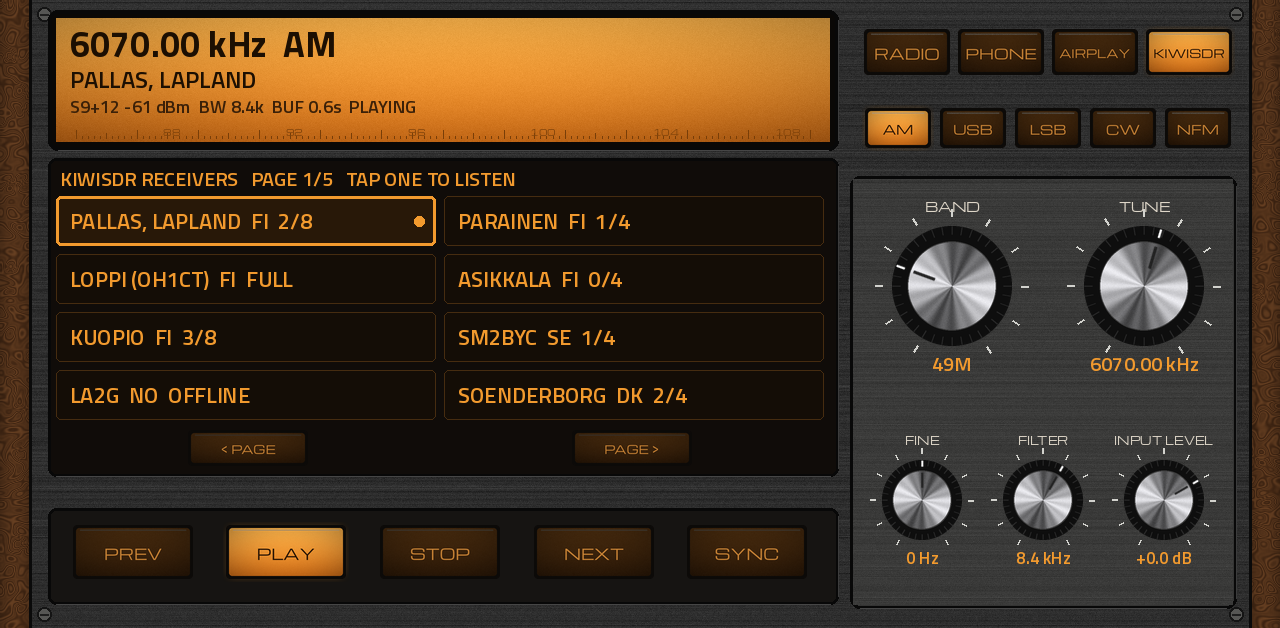
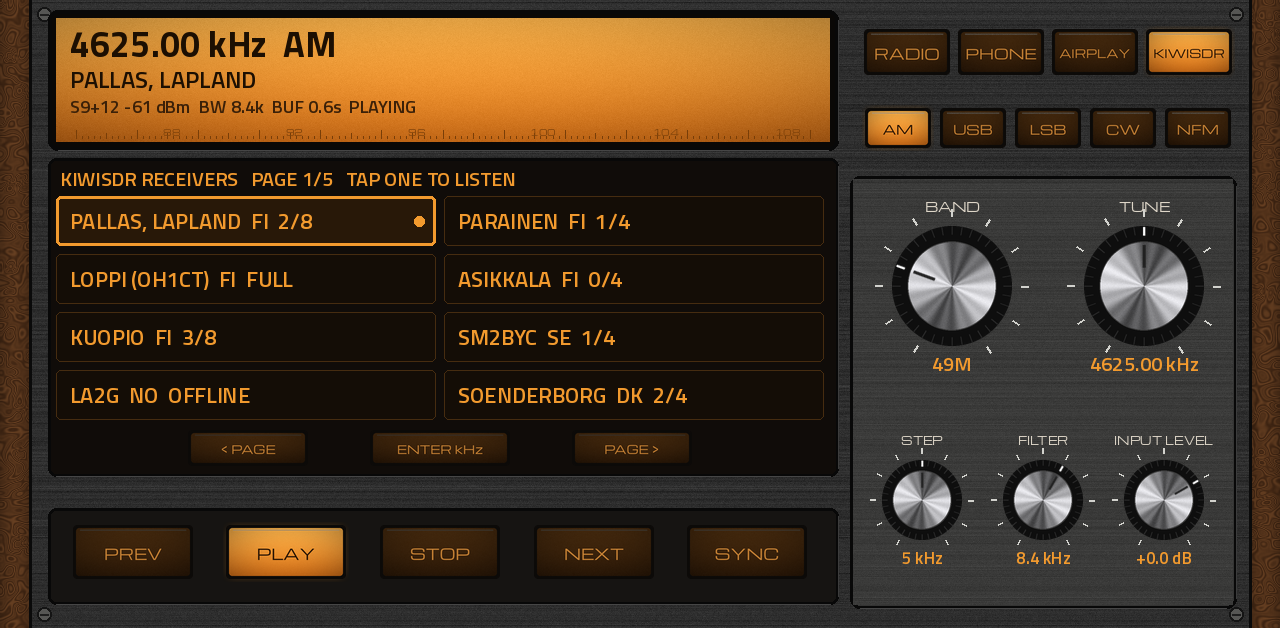
KIWISDR: free tuning over 0-30 MHz, STEP, ENTER kHz (0.2.2)
TUNE was tied to the selected band (it went round it in the band's step),
so frequencies between bands, like 4625 kHz, couldn't be reached. Now the
frequency is the engine's own (saved with the project): TUNE is an endless
knob (each move read from the middle, the knob put back there) stepping by
STEP (10 Hz .. 1 MHz, appended, in FINE's place on the page; FINE stays as
an unused parameter so indices hold), BAND jumps to a band's frequency,
mode and step, and ENTER kHz types a frequency with the keyboard.

Claude-Session: https://claude.ai/code/session_01JoZZ4tZXRfq7hKAep78PLY

diff --git a/src/engine.cc b/src/engine.cc
@@ -78,6 +78,9 @@ struct Inst {
   KiwiRx kcur;                        // the receiver picked
   bool kcur_valid = false;
   int kmode = KM_AM;
+  double kfreq = 6070.0;              // the frequency (kHz): BAND jumps, TUNE steps, ENTER kHz types it
+  bool kentry = false;                // the keyboard types a frequency (not a station search)
+  std::string kquery;
   bool kprobe = true;                 // ask the shown receivers for their status
   std::vector<std::string> changed;   // knobs the engine moved itself (mpc_engine_changed)
   // ---- readout
@@ -135,20 +138,44 @@ const KiwiBand& kband(const Inst* s) { return KIWI_BANDS[std::max(0, std::min(KI
 int kband_steps(const KiwiBand& b) { return b.nlist ? b.nlist - 1 : (int)lround((b.hi - b.lo) / b.step); }
 int kband_default(const KiwiBand& b) { return b.nlist ? 0 : (int)lround((b.def - b.lo) / b.step); }
 
-// TUNE moves one step (or one list entry) a detent and goes round the band: its 0..KIWI_TUNE_MAX holds every band at
-// least once, so a knob never stops dead at a band's end (and MPC's view of it stays the plugin's).
-int kiwi_step(const Inst* s) {
-  int n = kband_steps(kband(s)) + 1;
-  int t = std::max(0, (int)lroundf(s->v[P_KIWI_TUNE]));
-  return t % n;
+void moved(Inst* s, const char* key);
+void flash(Inst* s, const std::string& m);
+const double kKiwiTop = 30000.0;      // kHz: a KiwiSDR's range (0..30 MHz)
+
+double kiwi_khz(const Inst* s) { return s->kfreq; }
+
+double kiwi_step_khz(const Inst* s) { return KIWI_STEP_KHZ[std::max(0, std::min(KIWI_NUM_STEPS - 1, opt(s, P_KIWI_STEP)))]; }
+
+// the STEP option nearest a band's own step
+int kiwi_step_option(double khz) {
+  int best = 3;
+  for (int i = 0; i < KIWI_NUM_STEPS; ++i)
+    if (fabs(KIWI_STEP_KHZ[i] - khz) < fabs(KIWI_STEP_KHZ[best] - khz)) best = i;
+  return best;
 }
 
-double kiwi_khz(const Inst* s) {
-  const KiwiBand& b = kband(s);
-  int t = kiwi_step(s);
-  double f = b.nlist ? b.list[t] : b.lo + t * b.step;
-  f += ((int)lroundf(s->v[P_KIWI_FINE]) - 50) * 0.02;
-  return f < 0 ? 0 : f;
+// TUNE is an endless knob: it rests in the middle, each move is read from there (a Q-Link event or a data wheel click is
+// one step whichever way it went; a bigger move, a drag or a fast spin, that many steps), and the knob is put back.
+// A step is STEP on the grid of STEP (5 kHz steps land on ...5 and ...0), over the whole 0..30 MHz; in a list band
+// (TIME SIGNALS ...), while the frequency is one of its entries, the next entry.
+void kiwi_turn(Inst* s, float to) {
+  float d = to - 0.5f;
+  int steps = fabsf(d) < 0.03f ? (d > 0.f ? 1 : (d < 0.f ? -1 : 0)) : (int)lroundf(d * 128.f);
+  steps = std::max(-64, std::min(64, steps));
+  if (steps) {
+    const KiwiBand& b = kband(s);
+    int at = -1;
+    for (int i = 0; i < b.nlist; ++i) if (fabs(b.list[i] - s->kfreq) < 0.001) at = i;
+    if (at >= 0) s->kfreq = b.list[std::max(0, std::min(b.nlist - 1, at + steps))];
+    else {
+      double st = kiwi_step_khz(s), q = s->kfreq / st;
+      double base = steps > 0 ? floor(q + 1e-9) : ceil(q - 1e-9);   // off the grid: the first step lands on it
+      s->kfreq = std::max(0.0, std::min(kKiwiTop, (base + steps) * st));
+      s->kfreq = floor(s->kfreq * 1000.0 + 0.5) / 1000.0;           // whole Hz
+    }
+  }
+  s->v[P_KIWI_TUNE] = 0.5f;
+  moved(s, "kiwi_tune");
 }
 
 // the passband for the mode, FILTER's share of the mode's range (Hz around the carrier)
@@ -249,7 +276,7 @@ std::string value_text(const Inst* s, int p) {
       snprintf(b, sizeof b, "%.2f Hz", expmap(v, 0.02f, 20.f));
       return b;
     }
-    case P_KIWI_TUNE: snprintf(b, sizeof b, "%.2f kHz", kiwi_khz(s)); return b;
+    case P_KIWI_TUNE: snprintf(b, sizeof b, "%.2f kHz", kiwi_khz(s)); return b;   // the frequency, not the knob
     case P_KIWI_FINE: {
       int f = (int)lroundf(v) - 50;
       if (!f) return "0 Hz";
@@ -404,18 +431,26 @@ void set_kiwi_mode(Inst* s, int m) {
   kiwi_retune(s);
 }
 
-// BAND: the band's own frequency, mode and the fine tuning at zero
+// BAND: a jump to the band's own frequency, mode and step (TUNE goes on from there, anywhere)
 void kiwi_band_changed(Inst* s) {
   const KiwiBand& b = kband(s);
-  int n = kband_steps(b) + 1, d = kband_default(b);
-  int t = d + (int)lround((KIWI_TUNE_MAX / 2.0 - d) / n) * n;   // the band's own frequency, near the middle of the knob
-  while (t > KIWI_TUNE_MAX) t -= n;
-  while (t < 0) t += n;
-  s->v[P_KIWI_TUNE] = (float)t;
-  s->v[P_KIWI_FINE] = 50.f;
+  s->kfreq = b.def;
   s->kmode = b.mode;
-  moved(s, "kiwi_tune");
-  moved(s, "kiwi_fine");
+  if (!b.nlist) {
+    s->v[P_KIWI_STEP] = (float)kiwi_step_option(b.step);
+    moved(s, "kiwi_step");
+  }
+  kiwi_retune(s);
+}
+
+// ENTER kHz: the keyboard types a frequency
+void kiwi_enter(Inst* s) {
+  double f = atof(s->kquery.c_str());
+  s->kbd = false;
+  s->kentry = false;
+  if (s->kquery.empty()) return;
+  if (f < 0 || f > kKiwiTop) { flash(s, "0 .. 30000 kHz"); return; }
+  s->kfreq = f;
   kiwi_retune(s);
 }
 
@@ -468,6 +503,21 @@ void loop_capture(Inst* s) {
 }
 
 void press(Inst* s, int p) {
+  if (s->kentry && p >= P_KB_1 && p <= P_KB_M) {   // a frequency: digits only
+    const char* c = PARAM_DEFS[p].name;
+    if (c[0] >= '0' && c[0] <= '9' && s->kquery.size() < 9) s->kquery += c;
+    s->display_rev++;
+    return;
+  }
+  if (s->kentry && (p == P_KB_SPACE || p == P_KB_DEL || p == P_KB_CLR || p == P_KB_GO || p == P_KB_CLOSE)) {
+    if (p == P_KB_SPACE && s->kquery.find('.') == std::string::npos && s->kquery.size() < 9) s->kquery += s->kquery.empty() ? "0." : ".";
+    else if (p == P_KB_DEL && !s->kquery.empty()) s->kquery.pop_back();
+    else if (p == P_KB_CLR) s->kquery.clear();
+    else if (p == P_KB_GO) kiwi_enter(s);
+    else if (p == P_KB_CLOSE) { s->kbd = false; s->kentry = false; }
+    s->display_rev++;
+    return;
+  }
   if (p >= P_KB_1 && p <= P_KB_M) {   // the keyboard's characters
     if (s->query.size() < 40) s->query += PARAM_DEFS[p].name;
     s->display_rev++;
@@ -486,20 +536,22 @@ void press(Inst* s, int p) {
       if (s->cur_valid) play_station(s, s->cur);
       else { s->src.stop(); s->radio_on = false; }
       break;
-    case P_SRC_PHONE: s->want_src = SRC_PHONE; s->kbd = false; s->src.play_phone(); s->title.clear(); s->flowing = false; s->ip = s->src.ip_text(); break;
-    case P_SRC_AIR: s->want_src = SRC_AIRPLAY; s->kbd = false; s->src.play_airplay(); s->title.clear(); s->flowing = false; s->ip = s->src.ip_text(); break;
+    case P_SRC_PHONE: s->want_src = SRC_PHONE; s->kbd = false; s->kentry = false; s->src.play_phone(); s->title.clear(); s->flowing = false; s->ip = s->src.ip_text(); break;
+    case P_SRC_AIR: s->want_src = SRC_AIRPLAY; s->kbd = false; s->kentry = false; s->src.play_airplay(); s->title.clear(); s->flowing = false; s->ip = s->src.ip_text(); break;
     case P_SRC_KIWI:
       s->kbd = false;
+      s->kentry = false;
       s->kprobe = true;
       if (s->kcur_valid) play_kiwi(s, s->kcur);
       else { s->want_src = SRC_KIWI; s->src.stop(); s->title.clear(); s->flowing = false; }
       break;
+    case P_KIWI_ENTER: s->kbd = true; s->kentry = true; s->kquery.clear(); break;
     case P_KM_AM: set_kiwi_mode(s, KM_AM); break;
     case P_KM_USB: set_kiwi_mode(s, KM_USB); break;
     case P_KM_LSB: set_kiwi_mode(s, KM_LSB); break;
     case P_KM_CW: set_kiwi_mode(s, KM_CW); break;
     case P_KM_NFM: set_kiwi_mode(s, KM_NFM); break;
-    case P_SEARCH: s->kbd = !s->kbd; if (s->want_src != SRC_RADIO) { s->want_src = SRC_RADIO; s->src.stop(); } break;
+    case P_SEARCH: s->kentry = false; s->kbd = !s->kbd; if (s->want_src != SRC_RADIO) { s->want_src = SRC_RADIO; s->src.stop(); } break;
     case P_FAVS: show_favs(s); break;
     case P_TOP: s->list_mode = LIST_BROWSE; request_list(s, false); break;
     case P_FAV:
@@ -801,7 +853,7 @@ std::string serialize(const Inst* s) {
     o += "s\t" + clean(s->cur.uuid) + "\t" + clean(s->cur.name) + "\t" + clean(s->cur.url) + "\t" + clean(s->cur.codec) + "\t" +
          std::to_string(s->cur.bitrate) + "\t" + clean(s->cur.country) + "\n";
   o += "q\t" + clean(s->query) + "\n";
-  snprintf(b, sizeof b, "m %d\n", s->kmode);
+  snprintf(b, sizeof b, "m %d\nf %.3f\n", s->kmode, s->kfreq);
   o += b;
   if (s->kcur_valid)
     o += "w\t" + clean(s->kcur.host) + "\t" + std::to_string(s->kcur.port) + "\t" + clean(s->kcur.path) + "\t" +
@@ -846,6 +898,9 @@ void deserialize(Inst* s, const char* text) {
       }
     } else if (line.compare(0, 2, "q\t") == 0) {
       s->query = line.substr(2);
+    } else if (line.compare(0, 2, "f ") == 0) {
+      double f = atof(line.c_str() + 2);
+      if (f >= 0 && f <= kKiwiTop) s->kfreq = f;
     } else if (line.compare(0, 2, "m ") == 0) {
       int m = atoi(line.c_str() + 2);
       if (m >= 0 && m < KIWI_NUM_MODES) s->kmode = m;
@@ -1241,11 +1296,17 @@ void set_param(void* p, const char* k, const char* val) {
   switch (d.kind) {
     case PK_KNOB: {
       float f = knob_value(i, (float)atof(val));
+      if (i == P_KIWI_TUNE) {   // endless: a move, not a value
+        kiwi_turn(s, f);
+        kiwi_retune(s);
+        touch(s, i);
+        break;
+      }
       bool changed = s->v[i] != f;
       s->v[i] = f;
       if (changed) {
         if (i == P_KIWI_BAND) kiwi_band_changed(s);
-        else if (i == P_KIWI_TUNE || i == P_KIWI_FINE || i == P_KIWI_BW) kiwi_retune(s);
+        else if (i == P_KIWI_BW) kiwi_retune(s);
         if (i == P_GENRE || i == P_COUNTRY || i == P_SORT || i == P_KBPS) {
           if (s->list_mode == LIST_FAVS) s->list_mode = LIST_BROWSE;
           s->browse_countdown = 172;   // half a second after the last turn
@@ -1346,7 +1407,9 @@ int get_param(void* p, const char* k, char* buf, int n) {
         case P_ST_INFO: return put(buf, n, st_info(s));
         case P_PAGE_TXT: return put(buf, n, page_text(s));
         case P_KIWI_TXT: return put(buf, n, kiwi_text(s));
-        case P_QUERY: return put(buf, n, s->query + ((s->clock >> 6) & 1 ? "_" : " "));
+        case P_QUERY:
+          if (s->kentry) return put(buf, n, "FREQUENCY: " + s->kquery + ((s->clock >> 6) & 1 ? "_" : " ") + " kHz   (SPACE = .)");
+          return put(buf, n, s->query + ((s->clock >> 6) & 1 ? "_" : " "));
         case P_PHONE_TXT:
           return put(buf, n, s->ip.empty() ? "NO NETWORK: JOIN WI-FI OR A PHONE HOTSPOT" : "ROC DROID -> SEND TO " + s->ip + "  PORT 10001");
         case P_AIR_TXT:

diff --git a/tools/gen_params.py b/tools/gen_params.py
@@ -138,8 +138,8 @@ VIEWS = [("view", "VIEW", ["LIST", "KEYS", "PHONE", "AIRPLAY", "KIWI"])]
 
 # ---- KIWISDR (0.2.0): appended after everything above, so the older indices stay where projects saved them.
 # The bands BAND steps through: (name, low kHz, high kHz, step kHz, default mode, default kHz), or a list band:
-# (name, [kHz, ...], mode). TUNE is the step (or the list entry) within the band, going round it (engine.cc kiwi_step);
-# FINE adds -1..+1 kHz in 20 Hz.
+# (name, [kHz, ...], mode). BAND jumps to the band's frequency, mode and step; from there TUNE moves freely over
+# 0..30 MHz (an endless knob: a STEP a detent; in a list band, the next entry), and ENTER kHz types a frequency in.
 KIWI_MODES = ["AM", "USB", "LSB", "CW", "NFM"]
 KIWI_BANDS = [
     ("LF 10-150", 10, 150, 0.5, "USB", 77.5), ("LW", 153, 279, 9, "AM", 198), ("NDB 280-530", 280, 530, 1, "CW", 400),
@@ -161,13 +161,19 @@ KIWI_TUNE_MAX = 499     # the most steps a band has (15M HAM: 450); not a multip
 # knobs that are not 0..1: (key, name, default, options or None, extra params.json fields)
 KNOBS2 = [
     ("kiwi_band", "BAND", 8, [b[0] for b in KIWI_BANDS], {"qlink_ticks": 2}),
-    ("kiwi_tune", "TUNE", 278, None, {"min": 0, "max": KIWI_TUNE_MAX, "display": "int", "nudge_pct": 10,
-                                     "dynamic_display": True}),
-    ("kiwi_fine", "FINE", 50, None, {"min": 0, "max": 100, "display": "int", "nudge_pct": 10, "dynamic_display": True}),
+    # endless: the engine reads each move from the middle and puts the knob back there (engine.cc kiwi_turn)
+    ("kiwi_tune", "TUNE", 0.5, None, {"min": 0, "max": 1, "dynamic_display": True}),
+    # 0.2.0's FINE: unused since 0.2.2 (STEP replaced it), kept so parameter indices stay where projects saved them
+    ("kiwi_fine", "FINE (OLD)", 50, None, {"min": 0, "max": 100, "display": "int"}),
     ("kiwi_bw", "FILTER", 0.6, None, {"min": 0, "max": 1, "dynamic_display": True}),
 ]
 KEYS2 = [("src_kiwi", "KIWISDR")] + [("km_%s" % m.lower(), m) for m in KIWI_MODES]
 TEXTS2 = [("kiwi_txt", "RECEIVERS")]
+# appended (0.2.2): TUNE's step, and typing a frequency in
+KIWI_STEPS = [("10 Hz", 0.01), ("100 Hz", 0.1), ("500 Hz", 0.5), ("1 kHz", 1), ("5 kHz", 5), ("9 kHz", 9), ("10 kHz", 10),
+              ("100 kHz", 100), ("1 MHz", 1000)]
+KNOBS3 = [("kiwi_step", "STEP", 4, [k for k, _ in KIWI_STEPS], {"qlink_ticks": 2})]
+KEYS3 = [("kiwi_enter", "ENTER kHz")]
 
 
 def params():
@@ -199,6 +205,13 @@ def params():
         out.append({"key": key, "name": name, "display": "string", "min": 0, "max": 1, "default": 0, "kind": "KEY"})
     for key, name in TEXTS2:
         out.append({"key": key, "name": name, "display": "string", "min": 0, "max": 1, "default": 0, "kind": "TEXT"})
+    # appended (0.2.2)
+    for key, name, d, opts, extra in KNOBS3:
+        e = {"key": key, "name": name, "default": d, "kind": "KNOB", "options": opts}
+        e.update(extra)
+        out.append(e)
+    for key, name in KEYS3:
+        out.append({"key": key, "name": name, "display": "string", "min": 0, "max": 1, "default": 0, "kind": "KEY"})
     return out
 
 
@@ -222,7 +235,7 @@ def main():
          "enum { PK_KNOB, PK_KEY, PK_TEXT, PK_ROW, PK_VIEW };",
          "/* lo, hi: a knob's range in its own units (0..1, or whole numbers for a \"display\": \"int\" knob) */",
          "typedef struct { const char *key, *name; unsigned char kind, nopts; float def; const char *const *opts; float lo, hi; } ParamDef;"]
-    for key, name, d, opts, *_ in KNOBS + KNOBS2:
+    for key, name, d, opts, *_ in KNOBS + KNOBS2 + KNOBS3:
         if opts:
             M.append("static const char *const OPTS_%s[] = {%s};" % (key.upper(), ", ".join('"%s"' % o for o in opts)))
     M.append("static const char *const OPTS_VIEW[] = {%s};" % ", ".join('"%s"' % o for o in VIEWS[0][2]))
@@ -238,6 +251,8 @@ def main():
     M.append("enum { %s };" % ", ".join("KM_%s" % m for m in KIWI_MODES))
     M.append("#define KIWI_NUM_MODES %d" % len(KIWI_MODES))
     M.append("#define KIWI_TUNE_MAX %d" % KIWI_TUNE_MAX)
+    M.append("static const double KIWI_STEP_KHZ[] = {%s};" % ", ".join(repr(float(v)) for _, v in KIWI_STEPS))
+    M.append("#define KIWI_NUM_STEPS %d" % len(KIWI_STEPS))
     M.append("static const char *const KIWI_MODE_NAMES[] = {%s};" % ", ".join('"%s"' % m for m in KIWI_MODES))
     M.append("typedef struct { const char *name; double lo, hi, step; int mode; double def; int nlist; const double *list; } KiwiBand;")
     for i, b in enumerate(KIWI_BANDS):

diff --git a/src/param_defs.h b/src/param_defs.h
@@ -26,6 +26,7 @@ static const char *const OPTS_L3_WAVE[] = {"SINE", "TRI", "SAW UP", "SAW DN", "S
 static const char *const OPTS_L3_DEST[] = {"OFF", "POSITION", "SIZE", "PITCH", "GRAINS", "SPREAD", "CLOUD", "DETUNE", "SHAPE", "CUTOFF", "RESONANCE", "GRAIN MIX", "CHAR INT", "SAT AMOUNT", "DELAY TIME", "DELAY FB", "DELAY WET", "VERB MIX", "GATE DEPTH", "LOOP SPEED", "VOLUME"};
 static const char *const OPTS_FOL_DEST[] = {"OFF", "POSITION", "SIZE", "PITCH", "GRAINS", "SPREAD", "CLOUD", "DETUNE", "SHAPE", "CUTOFF", "RESONANCE", "GRAIN MIX", "CHAR INT", "SAT AMOUNT", "DELAY TIME", "DELAY FB", "DELAY WET", "VERB MIX", "GATE DEPTH", "LOOP SPEED", "VOLUME"};
 static const char *const OPTS_KIWI_BAND[] = {"LF 10-150", "LW", "NDB 280-530", "MW", "120M", "90M", "75M", "60M", "49M", "41M", "31M", "25M", "22M", "19M", "16M", "15M", "13M", "11M", "160M HAM", "80M HAM", "40M HAM", "30M HAM", "20M HAM", "17M HAM", "15M HAM", "12M HAM", "10M HAM", "CB 27 MHZ", "TIME SIGNALS", "VOLMET", "WEATHER FAX"};
+static const char *const OPTS_KIWI_STEP[] = {"10 Hz", "100 Hz", "500 Hz", "1 kHz", "5 kHz", "9 kHz", "10 kHz", "100 kHz", "1 MHz"};
 static const char *const OPTS_VIEW[] = {"LIST", "KEYS", "PHONE", "AIRPLAY", "KIWI"};
 static const ParamDef PARAM_DEFS[P_COUNT] = {
     {"in_lvl", "INPUT LEVEL", PK_KNOB, 0, 0.7f, 0, 0.0f, 1.0f},
@@ -227,8 +228,8 @@ static const ParamDef PARAM_DEFS[P_COUNT] = {
     {"row8", "STATION 8", PK_ROW, 0, 0.0f, 0, 0.0f, 1.0f},
     {"view", "VIEW", PK_VIEW, 5, 0.0f, OPTS_VIEW, 0.0f, 1.0f},
     {"kiwi_band", "BAND", PK_KNOB, 31, 8.0f, OPTS_KIWI_BAND, 0.0f, 1.0f},
-    {"kiwi_tune", "TUNE", PK_KNOB, 0, 278.0f, 0, 0.0f, 499.0f},
-    {"kiwi_fine", "FINE", PK_KNOB, 0, 50.0f, 0, 0.0f, 100.0f},
+    {"kiwi_tune", "TUNE", PK_KNOB, 0, 0.5f, 0, 0.0f, 1.0f},
+    {"kiwi_fine", "FINE (OLD)", PK_KNOB, 0, 50.0f, 0, 0.0f, 100.0f},
     {"kiwi_bw", "FILTER", PK_KNOB, 0, 0.6f, 0, 0.0f, 1.0f},
     {"src_kiwi", "KIWISDR", PK_KEY, 0, 0.0f, 0, 0.0f, 1.0f},
     {"km_am", "AM", PK_KEY, 0, 0.0f, 0, 0.0f, 1.0f},
@@ -237,11 +238,15 @@ static const ParamDef PARAM_DEFS[P_COUNT] = {
     {"km_cw", "CW", PK_KEY, 0, 0.0f, 0, 0.0f, 1.0f},
     {"km_nfm", "NFM", PK_KEY, 0, 0.0f, 0, 0.0f, 1.0f},
     {"kiwi_txt", "RECEIVERS", PK_TEXT, 0, 0.0f, 0, 0.0f, 1.0f},
+    {"kiwi_step", "STEP", PK_KNOB, 9, 4.0f, OPTS_KIWI_STEP, 0.0f, 1.0f},
+    {"kiwi_enter", "ENTER kHz", PK_KEY, 0, 0.0f, 0, 0.0f, 1.0f},
 };
 /* KIWISDR: the bands (a list band has nlist > 0 and its frequencies in list) and the modes */
 enum { KM_AM, KM_USB, KM_LSB, KM_CW, KM_NFM };
 #define KIWI_NUM_MODES 5
 #define KIWI_TUNE_MAX 499
+static const double KIWI_STEP_KHZ[] = {0.01, 0.1, 0.5, 1.0, 5.0, 9.0, 10.0, 100.0, 1000.0};
+#define KIWI_NUM_STEPS 9
 static const char *const KIWI_MODE_NAMES[] = {"AM", "USB", "LSB", "CW", "NFM"};
 typedef struct { const char *name; double lo, hi, step; int mode; double def; int nlist; const double *list; } KiwiBand;
 static const double KIWI_LIST_28[] = {2500.0, 3330.0, 4996.0, 5000.0, 7850.0, 9996.0, 10000.0, 14670.0, 14996.0, 15000.0, 20000.0};

diff --git a/tools/panel.py b/tools/panel.py
@@ -64,6 +64,7 @@ for i in range(8):
     c, r = i % 2, i // 2
     ROWS.append((T, "row%d" % (i + 1), 56 + c * 388, 196 + r * 58, 380, 50))
 key_row(T, [("pg_prev", "< PAGE"), ("pg_next", "PAGE >")], 448, 56, 824, "amber", 120, 36, views=[0, 4])
+KEYS.append((T, "kiwi_enter", 440, 448, 140, 36, "amber", "ENTER kHz", [4]))   # type a frequency (the keyboard)
 # the keyboard (view KEYS) in the list's place
 TEXTS.append((T, "query", 70, 166, 740, 30, 26, AMBER, "left", [1]))
 for r, chars in enumerate(["1234567890", "QWERTYUIOP", "ASDFGHJKL", "ZXCVBNM"]):
@@ -93,8 +94,8 @@ KNOBS += [(T, "genre", 952, 286, 120, "alu", RADIO_VIEWS), (T, "country", 1144, 
           (T, "in_lvl", 1164, 500, 80, "alu")]
 # KIWISDR's tuning in the same places: BAND and TUNE large, FINE and FILTER
 KNOBS += [(T, "kiwi_band", 952, 286, 120, "alu", [4]), (T, "kiwi_tune", 1144, 286, 120, "alu", [4]),
-          (T, "kiwi_fine", 922, 500, 80, "alu", [4]), (T, "kiwi_bw", 1043, 500, 80, "alu", [4])]
-QLINKS[T] = [["genre", "country", "sort", "kbps", "in_lvl"], ["kiwi_band", "kiwi_tune", "kiwi_fine", "kiwi_bw", "in_lvl"]]
+          (T, "kiwi_step", 922, 500, 80, "alu", [4]), (T, "kiwi_bw", 1043, 500, 80, "alu", [4])]
+QLINKS[T] = [["genre", "country", "sort", "kbps", "in_lvl"], ["kiwi_band", "kiwi_tune", "kiwi_step", "kiwi_bw", "in_lvl"]]
 
 # ------------------------------------------------------------------------------------------------ PET (modern)
 T = 1

diff --git a/tools/preview.py b/tools/preview.py
@@ -47,13 +47,13 @@ SAMPLE = {
     "atk": (0.05, "2 ms", 0), "dec": (0.4, "150 ms", 0), "sus": (0.8, "80%", 0), "rel": (0.35, "116 ms", 0), "l2_sync": (0, "", 1),
 }
 KIWI_SAMPLE = {
-    "st_name": (0, "6070.00 kHz  AM", 0), "st_title": (0, "PALLAS, LAPLAND", 0),
+    "st_name": (0, "4625.00 kHz  AM", 0), "st_title": (0, "PALLAS, LAPLAND", 0),
     "st_info": (0, "S9+12 -61 dBm  BW 8.4k  BUF 0.6s  PLAYING", 0),
     "kiwi_txt": (0, "KIWISDR RECEIVERS   PAGE 1/5   TAP ONE TO LISTEN", 0),
     "row1": (0, "PALLAS, LAPLAND  FI  2/8", 1), "row2": (0, "PARAINEN  FI  1/4", 0), "row3": (0, "LOPPI (OH1CT)  FI  FULL", 0),
     "row4": (0, "ASIKKALA  FI  0/4", 0), "row5": (0, "KUOPIO  FI  3/8", 0), "row6": (0, "SM2BYC  SE  1/4", 0),
     "row7": (0, "LA2G  NO  OFFLINE", 0), "row8": (0, "SOENDERBORG  DK  2/4", 0),
-    "kiwi_band": (8 / 30, "49M", 0), "kiwi_tune": (278 / 500, "6070.00 kHz", 0), "kiwi_fine": (0.5, "0 Hz", 0),
+    "kiwi_band": (8 / 30, "49M", 0), "kiwi_tune": (0.5, "4625.00 kHz", 0), "kiwi_step": (4 / 8, "5 kHz", 0),
     "kiwi_bw": (0.6, "8.4 kHz", 0), "src_radio": (0, "", 0), "src_kiwi": (0, "", 1), "km_am": (0, "", 1), "top": (0, "", 0),
 }
 for i in (1, 3, 4, 6, 8, 9, 11, 12, 14, 16):

diff --git a/tools/skin_views_check.py b/tools/skin_views_check.py
@@ -18,9 +18,9 @@ NEED = {0: ["row1", "row8", "genre", "country", "sort", "kbps", "in_lvl", "pg_pr
         1: ["kb_q", "kb_go", "query", "in_lvl"],
         2: ["phone_txt", "genre", "in_lvl"],
         3: ["air_txt", "genre", "in_lvl"],
-        4: ["row1", "row8", "kiwi_band", "kiwi_tune", "kiwi_fine", "kiwi_bw", "in_lvl", "pg_prev", "pg_next", "km_am",
-            "km_nfm", "kiwi_txt"]}
-NOT = {0: ["kiwi_band", "km_am", "kiwi_txt"], 4: ["genre", "country", "sort", "kbps", "search", "fav", "page_txt"]}
+        4: ["row1", "row8", "kiwi_band", "kiwi_tune", "kiwi_step", "kiwi_bw", "in_lvl", "pg_prev", "pg_next", "km_am",
+            "km_nfm", "kiwi_txt", "kiwi_enter"]}
+NOT = {0: ["kiwi_band", "km_am", "kiwi_txt", "kiwi_enter", "kiwi_fine"], 4: ["genre", "country", "sort", "kbps", "search", "fav", "page_txt", "kiwi_fine"]}
 
 
 def main(skin):

diff --git a/src/param_ids.h b/src/param_ids.h
@@ -210,7 +210,9 @@ enum {
     P_KM_CW = 206,
     P_KM_NFM = 207,
     P_KIWI_TXT = 208,
-    P_COUNT = 209
+    P_KIWI_STEP = 209,
+    P_KIWI_ENTER = 210,
+    P_COUNT = 211
 };
 #define NUM_KNOBS 72
 #define FIRST_KEY 72

diff --git a/README.md b/README.md
@@ -219,10 +219,13 @@ and the frequency, the receiver demodulates and sends the audio (about 12 kHz wi
 
 | Knob | |
 |---|---|
-| **BAND** | where to listen: LF, LW, MW, the broadcast bands **120M** to **11M**, the ham bands **160M** to **10M**, **CB**, **NDB** beacons, and three lists: **TIME SIGNALS**, **VOLMET** (aviation weather), **WEATHER FAX**. A band sets its usual mode and a busy frequency. |
-| **TUNE** | one channel per detent (5 kHz in a broadcast band, 9 kHz on LW / MW, 1 kHz on the ham bands, the next entry in a list); it goes round the band |
-| **FINE** | -1 .. +1 kHz in 20 Hz steps: for SSB voices that sound like ducks, or to put a carrier where you like it |
+| **BAND** | a jump: LF, LW, MW, the broadcast bands **120M** to **11M**, the ham bands **160M** to **10M**, **CB**, **NDB** beacons, and three lists: **TIME SIGNALS**, **VOLMET** (aviation weather), **WEATHER FAX**. A band sets its usual mode, a busy frequency and its step. |
+| **TUNE** | an endless knob over the whole 0 .. 30 MHz: one STEP per detent, either way, as far as you like (bands are only starting points); a fast spin or a drag moves several steps. In a list band it goes from entry to entry. |
+| **STEP** | how far a TUNE detent goes: 10 Hz, 100 Hz, 500 Hz, 1, 5, 9, 10, 100 kHz, 1 MHz (10 or 100 Hz for SSB voices that sound like ducks) |
 | **FILTER** | the bandwidth, within the mode's range (AM 3..12 kHz, SSB 1.5..3.6 kHz, CW 100..1000 Hz, NFM 6..12 kHz) |
+
+**ENTER kHz** (between the page keys) opens the keyboard for a frequency: type it in kHz (`4625`; SPACE is the decimal
+point: `6075 2` = 6075.2) and press **GO**.
 
 The mode keys (in the second row in KIWISDR): **AM**, **USB**, **LSB**, **CW**, **NFM**. The window shows the frequency and
 mode, the receiver, the S-meter and dBm, the bandwidth and the buffer. Tuning goes to the receiver at once; you hear it

diff --git a/CHANGELOG.md b/CHANGELOG.md
@@ -1,5 +1,10 @@
 # Changelog
 
+## 0.2.2
+- KIWISDR tuning is free: **TUNE** is an endless knob over the whole 0 .. 30 MHz (one **STEP** a detent, either way, no
+  band edges), **STEP** (new, in FINE's place) sets 10 Hz .. 1 MHz, **BAND** is a jump to a band's frequency, mode and
+  step, and **ENTER kHz** types a frequency in with the keyboard (e.g. 4625). The frequency is saved with the project.
+
 ## 0.2.1
 - Fixes 0.2.0's RADIO page on the device: the station / receiver list, the page keys, SEARCH / BROWSE / FAVS / FAV and the
   GENRE / COUNTRY / SORT / MAX KBPS knobs didn't show, and the 80 and 120 px knobs had no size. MPC shows a part only
